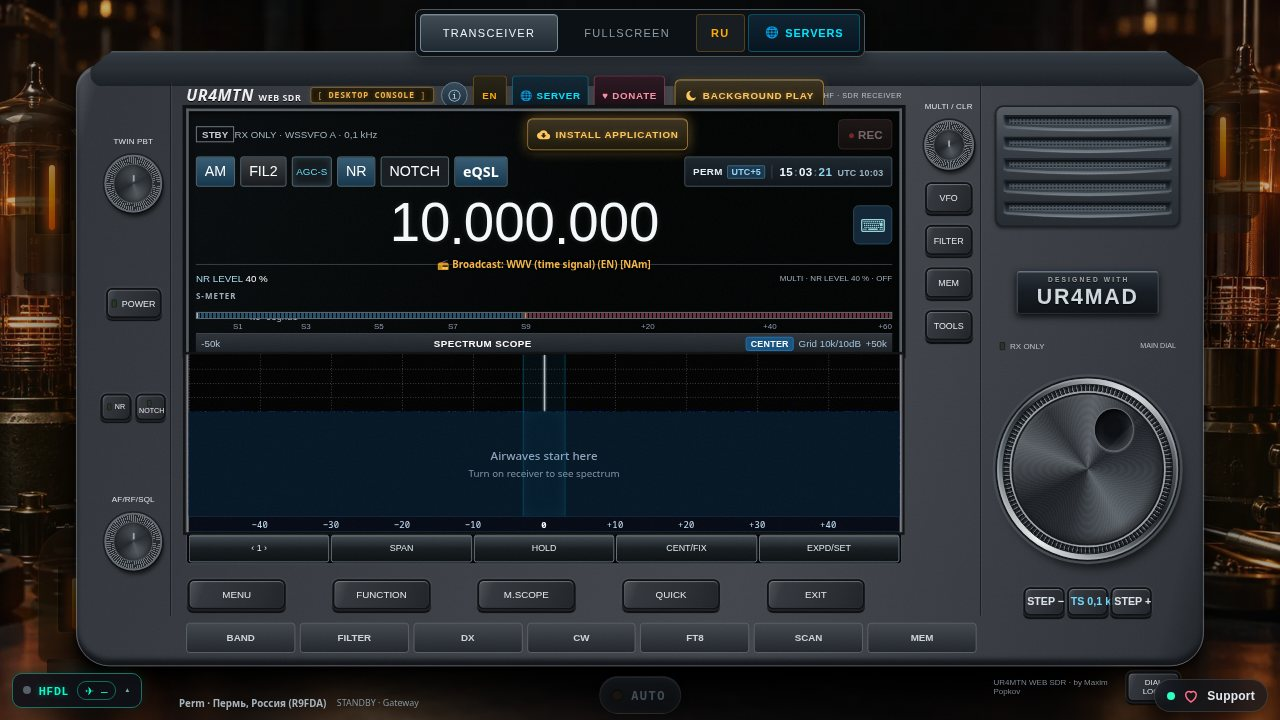
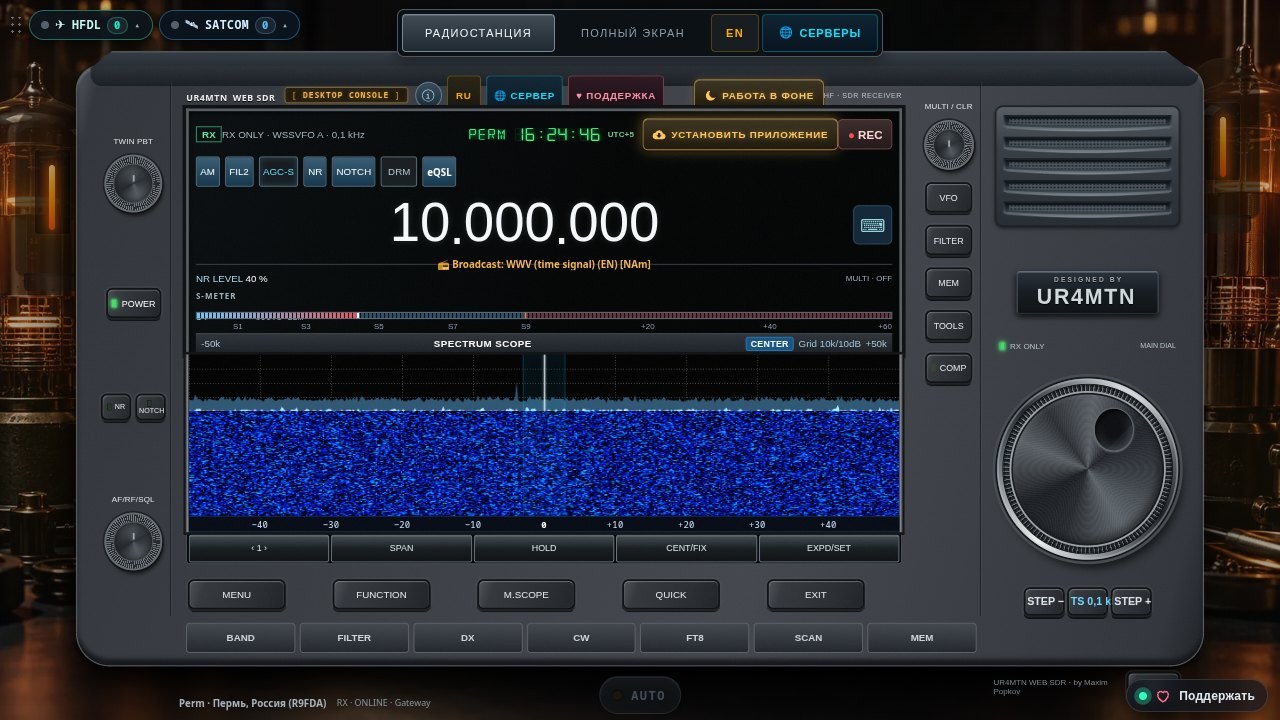
feat: update UR4MTN WebSDR to live domain ur4mtn-sdr.site with fresh screenshot and description

diff --git a/projects.js b/projects.js
@@ -22,16 +22,16 @@ const PROJECTS = [
   {
     id: 'websdr', cat: ['radio', 'apps'], img: 'images/proj-websdr.jpg', status: 'live',
     tags: ['React', 'TypeScript', 'Node.js', 'WebSocket', 'KiwiSDR', 'WebGL2', 'PWA'],
-    links: { demo: 'https://web-sdr.vercel.app/' },
+    links: { demo: 'https://ur4mtn-sdr.site/' },
     title: 'UR4MTN WebSDR',
     desc: {
-      ru: 'Веб-приёмник КВ-диапазона: React-клиент и Node.js WebSocket-шлюз к публичным KiwiSDR. Реальный звук (PCM), спектр и водопад на WebGL2, ввод частоты, режимы и фильтры, PWA. Имитации сигнала нет.',
-      en: 'Browser-based HF receiver: a React client and a Node.js WebSocket gateway to public KiwiSDR receivers. Real PCM audio, WebGL2 spectrum and waterfall, frequency entry, modes and filters, PWA. No simulated signal.',
-      de: 'Browserbasierter KW-Empfänger: React-Client und Node.js-WebSocket-Gateway zu öffentlichen KiwiSDR-Empfängern. Echter PCM-Ton, WebGL2-Spektrum und -Wasserfall, Frequenzeingabe, Modi und Filter, PWA. Kein simuliertes Signal.',
-      pl: 'Przeglądarkowy odbiornik KF: klient React i bramka WebSocket w Node.js do publicznych odbiorników KiwiSDR. Prawdziwy dźwięk PCM, widmo i wodospad w WebGL2, wpisywanie częstotliwości, tryby i filtry, PWA. Bez symulowanego sygnału.',
-      cs: 'Prohlížečový přijímač KV: klient v Reactu a WebSocket brána v Node.js k veřejným přijímačům KiwiSDR. Skutečný zvuk PCM, spektrum a vodopád ve WebGL2, zadávání kmitočtu, režimy a filtry, PWA. Žádný simulovaný signál.',
-      ro: 'Receptor de unde scurte în browser: client React și gateway WebSocket în Node.js către receptoare KiwiSDR publice. Sunet PCM real, spectru și waterfall WebGL2, introducerea frecvenței, moduri și filtre, PWA. Fără semnal simulat.',
-      bg: 'Късовълнов приемник в браузъра: React клиент и Node.js WebSocket шлюз към публични KiwiSDR приемници. Истински PCM звук, спектър и водопад с WebGL2, въвеждане на честота, режими и филтри, PWA. Без симулиран сигнал.',
+      ru: 'Браузерный WebSDR-приёмник коротких волн (HF, 0–30 МГц), работающий в реальном времени: реальный звук и водопад на WebGL2, цифровая фильтрация звука, потоки публичных KiwiSDR, DX-кластер со спотами, декодер CW и интерактивная карта репитеров. React, Node.js, PWA. Имитации сигнала нет.',
+      en: 'A real-time browser WebSDR receiver for the shortwave bands (HF, 0–30 MHz): real audio and a WebGL2 waterfall, digital audio filtering, streams from public KiwiSDR receivers, a DX cluster feed with spots, a CW decoder and an interactive repeater map. React, Node.js, PWA. No simulated signal.',
+      de: 'Browserbasierter WebSDR-Empfänger für Kurzwelle (HF, 0–30 MHz) in Echtzeit: echter Ton und WebGL2-Wasserfall, digitale Audiofilterung, Streams öffentlicher KiwiSDR-Empfänger, DX-Cluster mit Spots, CW-Decoder und interaktive Relaisfunkstellen-Karte. React, Node.js, PWA. Kein simuliertes Signal.',
+      pl: 'Przeglądarkowy odbiornik WebSDR fal krótkich (KF, 0–30 MHz) działający w czasie rzeczywistym: prawdziwy dźwięk i wodospad WebGL2, cyfrowa filtracja dźwięku, strumienie publicznych odbiorników KiwiSDR, klaster DX ze spotami, dekoder CW i interaktywna mapa przemienników. React, Node.js, PWA. Bez symulowanego sygnału.',
+      cs: 'Prohlížečový WebSDR přijímač krátkých vln (KV, 0–30 MHz) v reálném čase: skutečný zvuk a vodopád ve WebGL2, digitální filtrace zvuku, streamy veřejných přijímačů KiwiSDR, DX cluster se spoty, dekodér CW a interaktivní mapa převaděčů. React, Node.js, PWA. Žádný simulovaný signál.',
+      ro: 'Receptor WebSDR în browser pentru unde scurte (HF, 0–30 MHz), în timp real: sunet real și waterfall WebGL2, filtrare digitală a sunetului, fluxuri de la receptoare KiwiSDR publice, DX cluster cu spoturi, decodor CW și hartă interactivă a repetoarelor. React, Node.js, PWA. Fără semnal simulat.',
+      bg: 'Браузърен WebSDR приемник на къси вълни (HF, 0–30 MHz) в реално време: истински звук и водопад с WebGL2, цифрова филтрация на звука, потоци от публични KiwiSDR приемници, DX клъстер със спотове, CW декодер и интерактивна карта на репитери. React, Node.js, PWA. Без симулиран сигнал.',
     },
   },
   {
